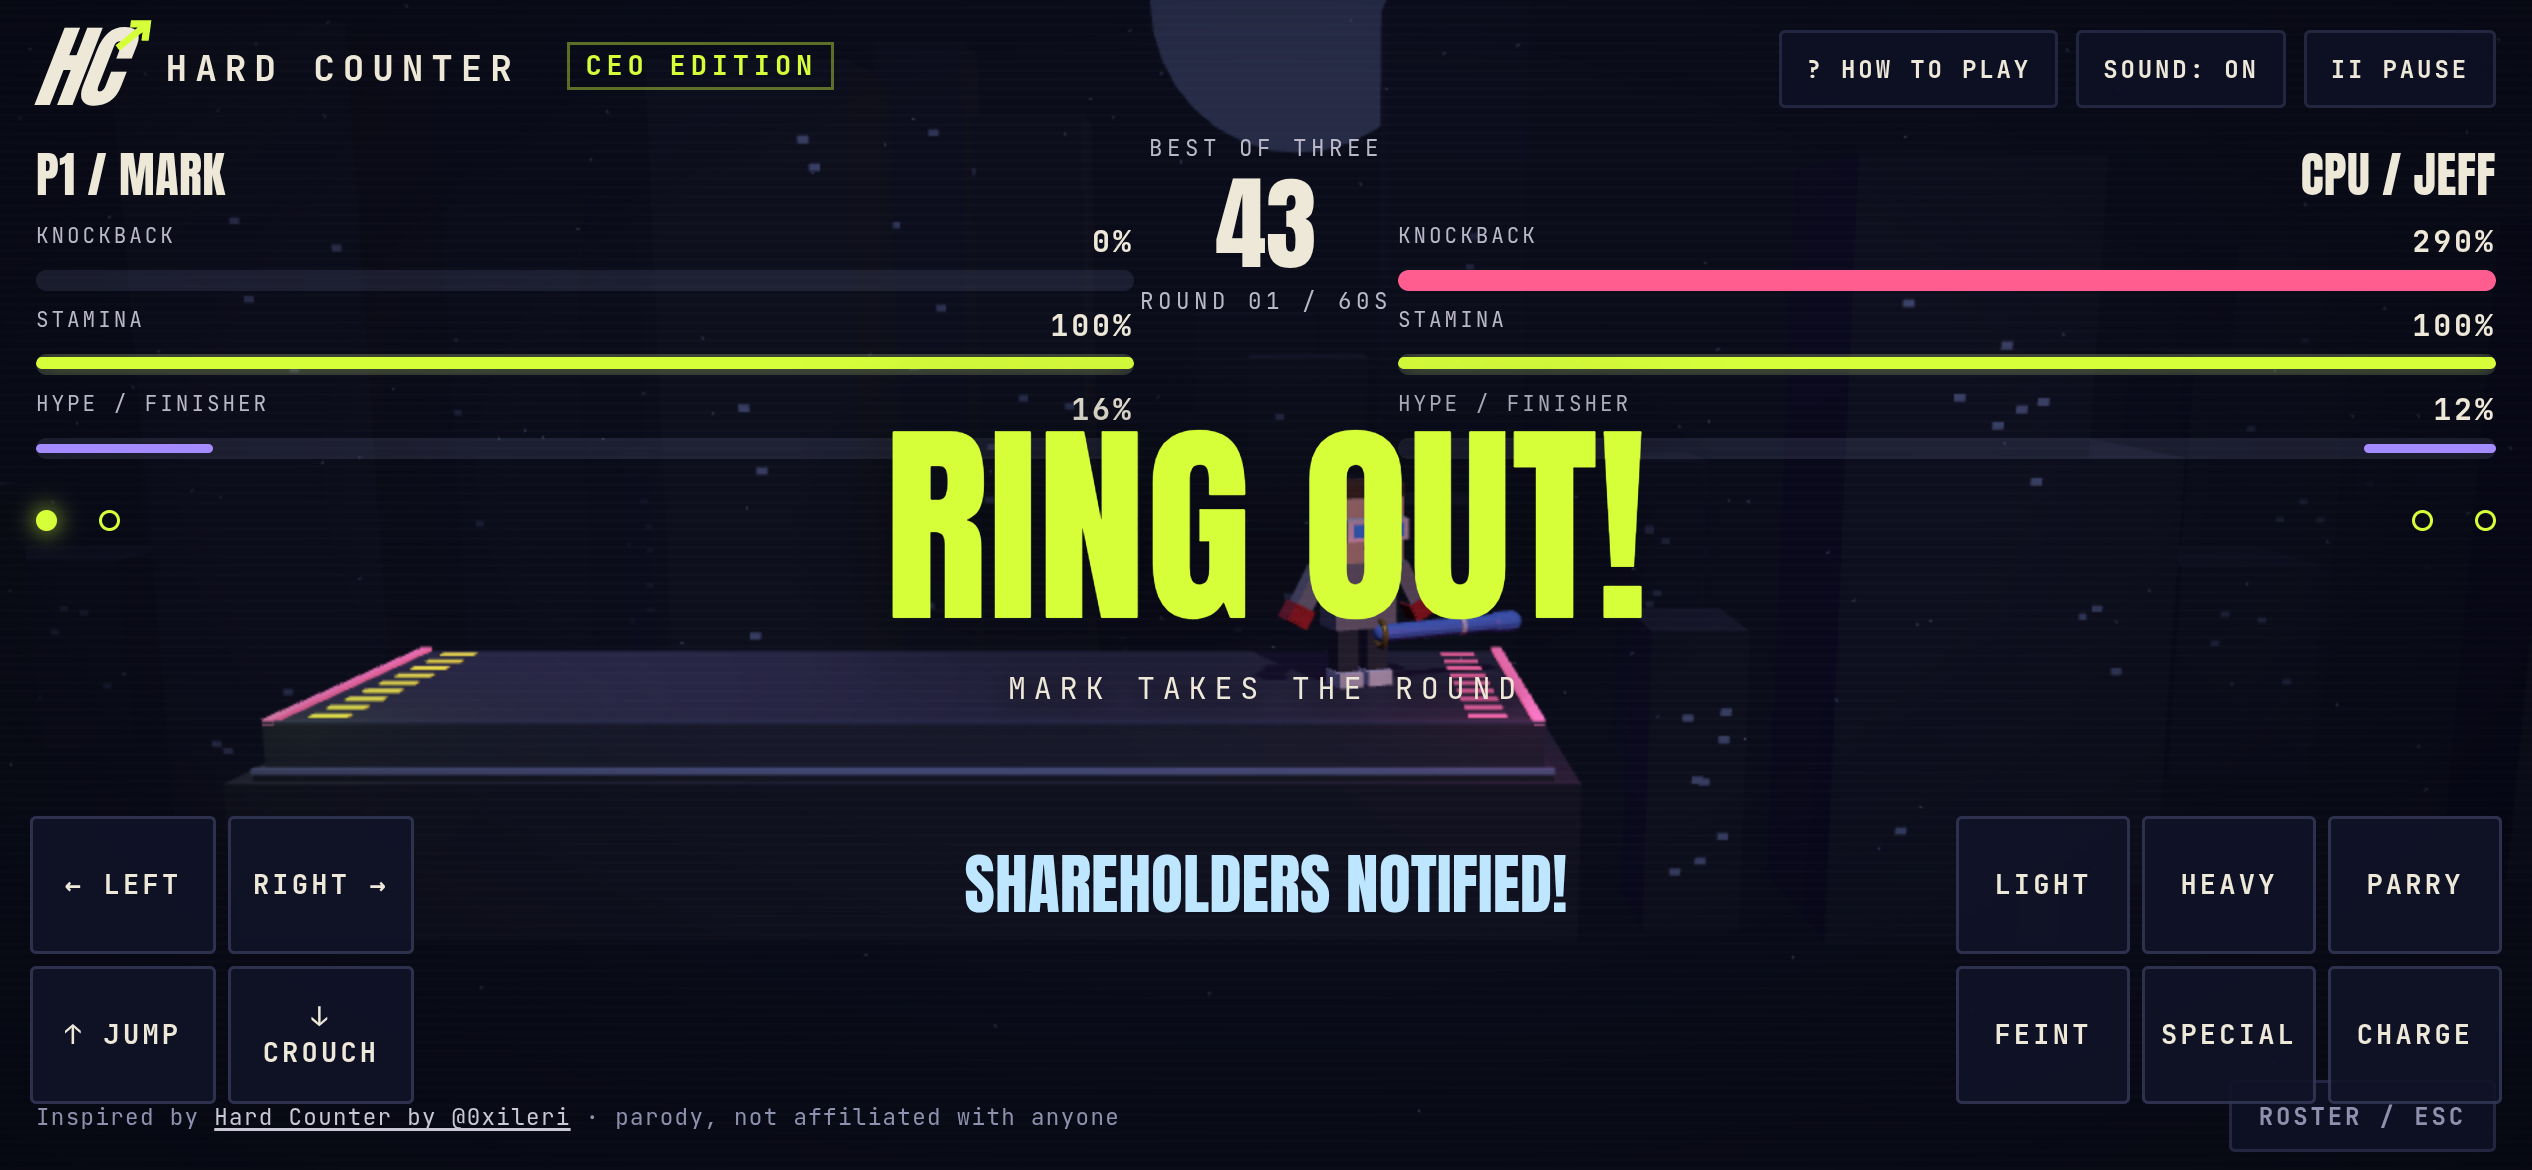
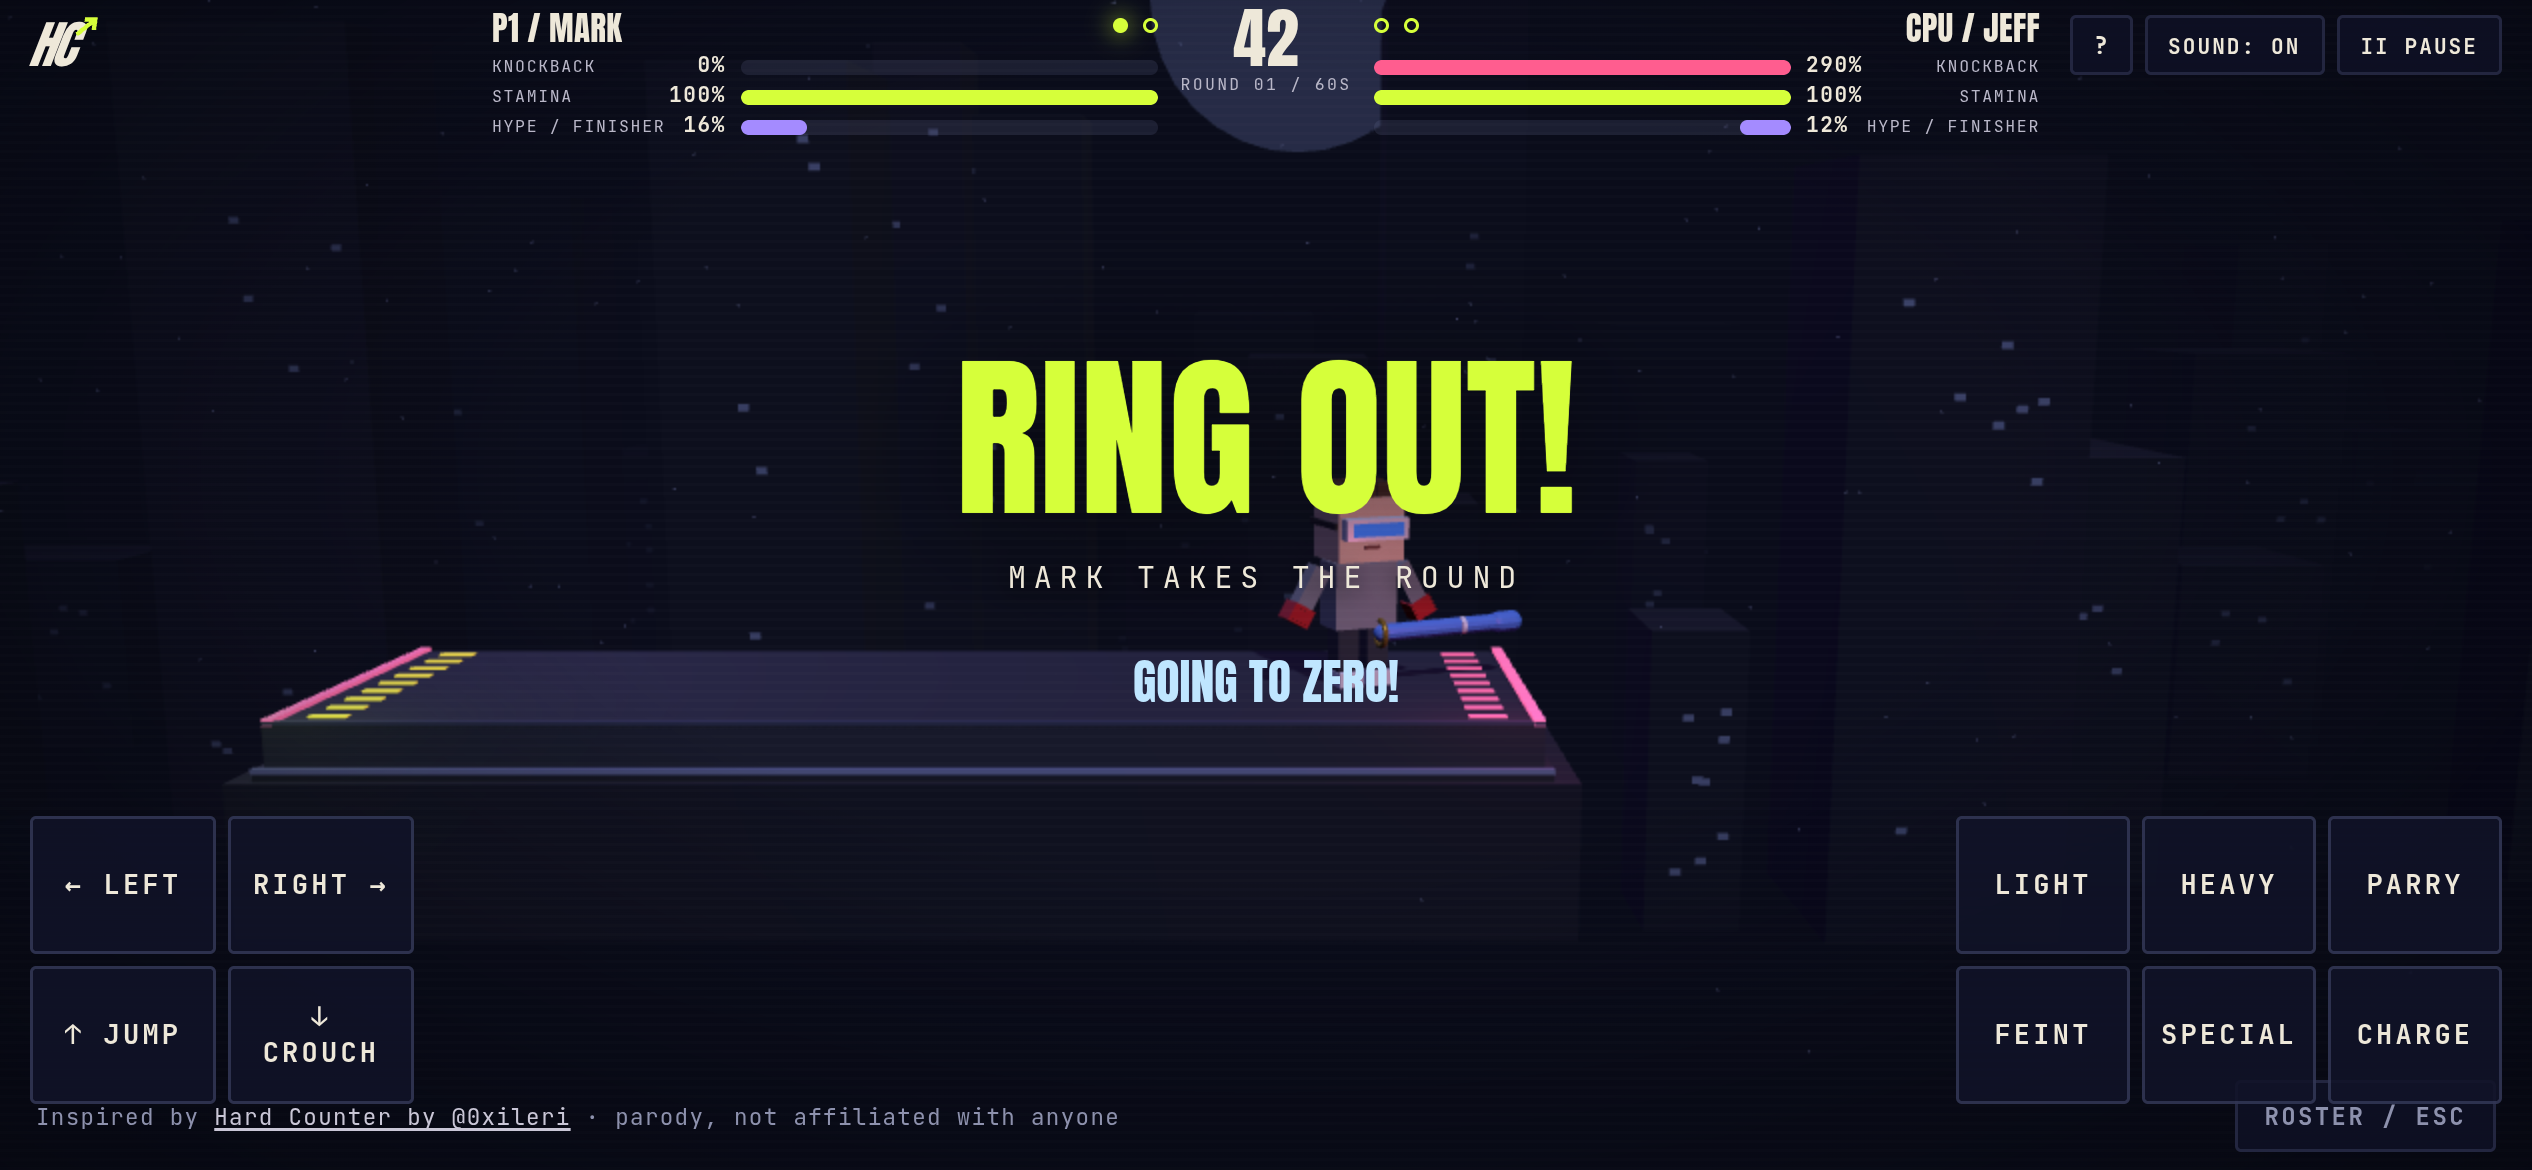
Compact top-pinned HUD for phones in landscape (thin bars, inline labels, small timer, slim top row)

diff --git a/src/style.css b/src/style.css
@@ -261,3 +261,44 @@ kbd{font-family:var(--mono);font-size:10px;border:1px solid var(--line);backgrou
 #hud .pad{z-index:6}
 #hud .pad-grid button{touch-action:none;-webkit-touch-callout:none;-webkit-user-select:none;user-select:none}
 #hud .splash.final{z-index:7}
+
+/* ---- compact HUD for phones in landscape (short viewports) ---- */
+@media (max-height: 500px) and (orientation: landscape){
+  .top{padding:max(4px,env(safe-area-inset-top)) max(10px,env(safe-area-inset-right)) 0 max(10px,env(safe-area-inset-left));height:26px}
+  .logo{font-size:17px}
+  .logo svg{width:10px;height:10px;right:-8px;top:-3px}
+  .brand{gap:12px}
+  .brand-title{font-size:8px;letter-spacing:.18em}
+  .brand-title em{font-size:6.5px;padding:0 4px}
+  .top-actions{gap:4px}
+  .tbtn{padding:4px 7px;font-size:7px;letter-spacing:.1em}
+  body.in-fight .brand-text,.chip-arcade{display:none}
+  body.in-fight #btnHow{font-size:0;padding:4px 7px}
+  body.in-fight #btnHow::before{content:'?';font-size:8px}
+
+  #hud .hud-side{top:max(4px,env(safe-area-inset-top));width:calc(50% - 200px)}
+  #hud .hud-side.p1{left:auto;right:calc(50% + 36px)}
+  #hud .hud-side.p2{right:auto;left:calc(50% + 36px)}
+  #hud .hud-name{font-size:11px;line-height:12px;margin:0 0 2px;white-space:nowrap;overflow:hidden;text-overflow:ellipsis}
+  #hud .meter{display:flex;align-items:center;gap:5px;margin:0 0 2px;height:8px}
+  #hud .p2 .meter{flex-direction:row-reverse}
+  #hud .mrow{flex:0 0 auto;width:78px;margin:0;font-size:5.5px;letter-spacing:.1em;line-height:8px}
+  #hud .p2 .mrow{flex-direction:row-reverse}
+  #hud .mrow b{font-size:7px}
+  #hud .track{flex:1;height:5px;border-radius:3px}
+  #hud .fill{border-radius:3px}
+  #hud .fill.st,#hud .fill.hy,#hud .fill.hy.full{height:100%;margin-top:0}
+  #hud .status{height:9px;font-size:6.5px;line-height:9px;margin-top:0;letter-spacing:.12em}
+  #hud .pips{position:absolute;top:2px;right:0;margin:0;gap:5px}
+  #hud .p2 .pips{right:auto;left:0}
+  #hud .pips i{width:5px;height:5px;border-width:1px}
+  #hud .hud-center{top:max(2px,env(safe-area-inset-top))}
+  #hud .hud-center .bo3{display:none}
+  #hud .timer{font-size:22px;line-height:22px;margin:0}
+  #hud .rinfo{font-size:5.5px;letter-spacing:.14em}
+  #hud .rotate-tip{display:none!important}
+  .splash{top:30%}
+  .splash-big{font-size:clamp(36px,7vw,64px)}
+  .splash-extra{margin-top:16px;font-size:16px}
+  .callout{top:48%}
+}

diff --git a/tests/hudshots.py b/tests/hudshots.py
@@ -1,0 +1,24 @@
+# Landscape/portrait HUD screenshots mid-fight. Usage: python3 tests/hudshots.py <prefix> [url]
+import asyncio, sys
+from playwright.async_api import async_playwright
+PFX = sys.argv[1]; URL = sys.argv[2] if len(sys.argv) > 2 else 'http://127.0.0.1:4173/'
+ARGS = ['--use-gl=angle','--use-angle=swiftshader','--enable-unsafe-swiftshader','--ignore-gpu-blocklist']
+SIZES = [('844x390', 844, 390), ('932x430', 932, 430), ('portrait-390x664', 390, 664)]
+async def main():
+    async with async_playwright() as p:
+        b = await p.chromium.launch(executable_path='/usr/bin/google-chrome', headless=True, args=ARGS)
+        for name, w, h in SIZES:
+            ctx = await b.new_context(**{**p.devices['iPhone 13'], 'viewport': {'width': w, 'height': h}, 'screen': {'width': w, 'height': h}})
+            pg = await ctx.new_page(); await pg.goto(URL); await pg.wait_for_timeout(2500)
+            await pg.tap('.card:nth-child(1)'); await pg.wait_for_timeout(200); await pg.tap('.card:nth-child(2)')
+            await pg.wait_for_function("window.__hc.match.phase==='fight'", timeout=15000)
+            await pg.evaluate("window.__hc.cpuOn(false)")
+            await pg.evaluate("(()=>{const m=window.__hc.match; m.f[0].x=-1.2; m.f[1].x=1.2; m.f[0].knock=46; m.f[1].knock=82; m.f[0].stamina=64; m.f[0].hype=40; m.f[1].hype=70; m.f[1].stamina=30;})()")
+            await pg.wait_for_timeout(1200)
+            await pg.evaluate("window.__hc.match.f[0].intent.heavy=1")
+            await pg.wait_for_function("document.getElementById('status1').textContent.length>0", timeout=3000)
+            info = await pg.evaluate("""(()=>{const r=(s)=>document.querySelector(s).getBoundingClientRect(); const a=r('.hud-side.p1'), t=r('.top'), c=r('.hud-center'), pd=r('.pad-left'); return {hudBottom:Math.round(Math.max(a.bottom,c.bottom)), topRow:Math.round(t.bottom), padTop:Math.round(pd.top), h:innerHeight}})()""")
+            print(name, info, 'hud % of height:', round(100*info['hudBottom']/info['h']))
+            await pg.screenshot(path=f'shots/{PFX}-{name}.png'); await ctx.close()
+        await b.close()
+asyncio.run(main())
